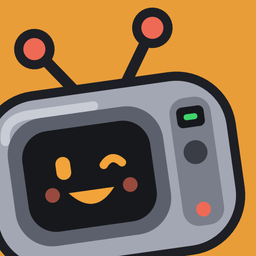
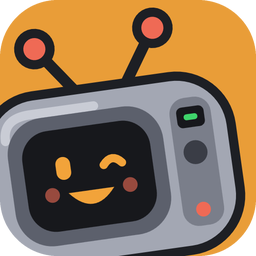
style(marca): ícones com cantos arredondados
A pedido do dono: app (1024), barra da janela (256) e favicon (64) com
raio de 22,5% do lado, o mesmo do ícone anterior; cantos transparentes,
máscara em 4× reduzida, sem serrilhado.

Claude-Session: https://claude.ai/code/session_01JtykJRjRzmcDn2njE4UXrt

diff --git a/docs/adr/0022-identidade-crt-ambar.md b/docs/adr/0022-identidade-crt-ambar.md
@@ -163,6 +163,9 @@ havia painel.
   `favicon.png` (64 px), `tela-app-icon.png` (256 px, também na `Marca`) e o
   ícone do desktop (`apps/desktop/build/icon.png`, 1024 px). `favicon.svg`,
   `tela-tv.svg` e `tela-app-icon.svg` saíram. A `og-convite.png` não mudou.
+- **2026-10-03:** a pedido do dono, os três ícones ganharam cantos
+  arredondados (raio de 22,5% do lado, o mesmo do ícone anterior), com os
+  cantos transparentes e a máscara feita em 4× e reduzida, sem serrilhado.
 - A pintura do tubo depende de as fontes já estarem carregadas quando o canvas é
   desenhado. `document.fonts.ready` repinta, como já fazia; num primeiro acesso
   lento o tubo pode aparecer por um instante na fonte de fallback.
